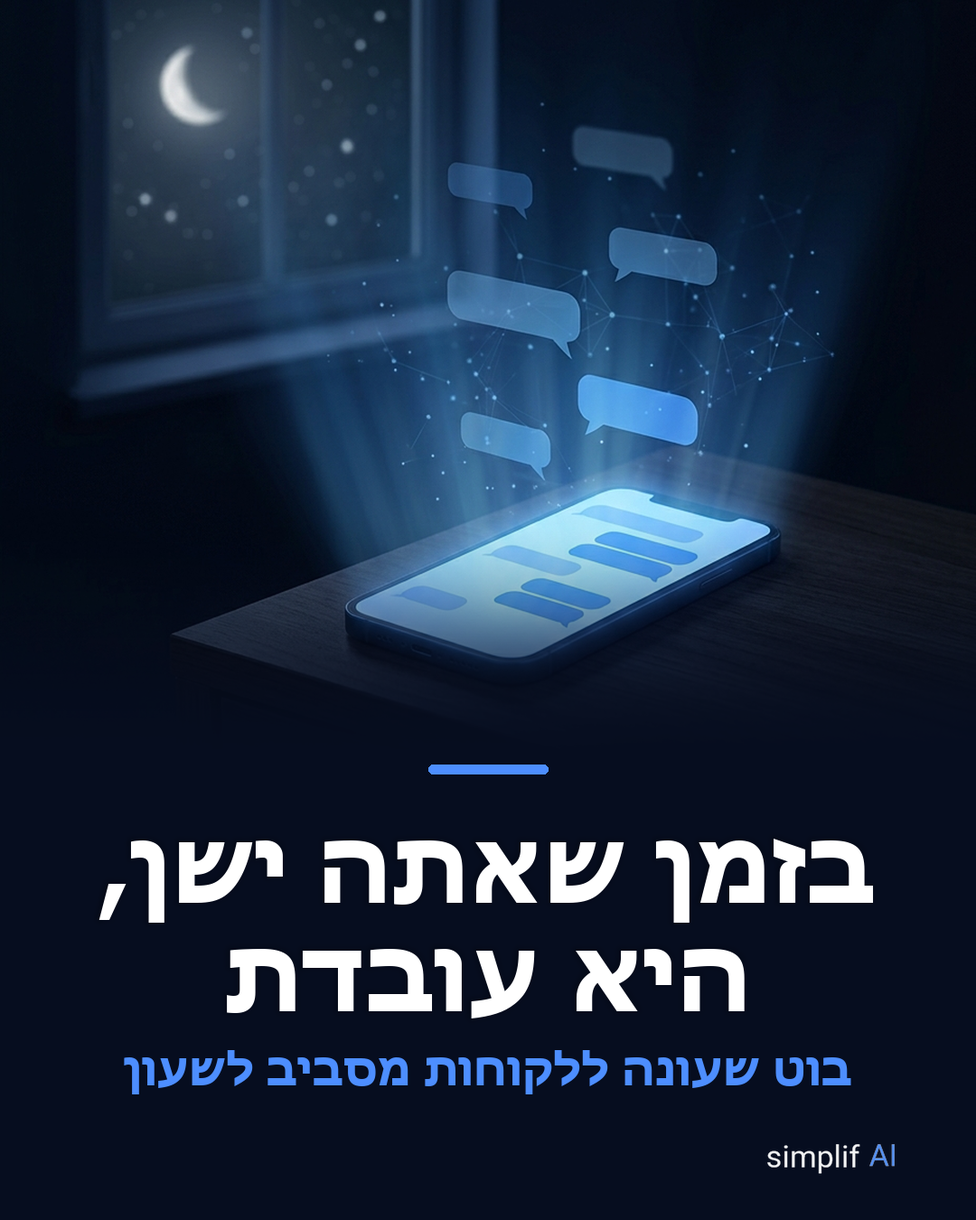
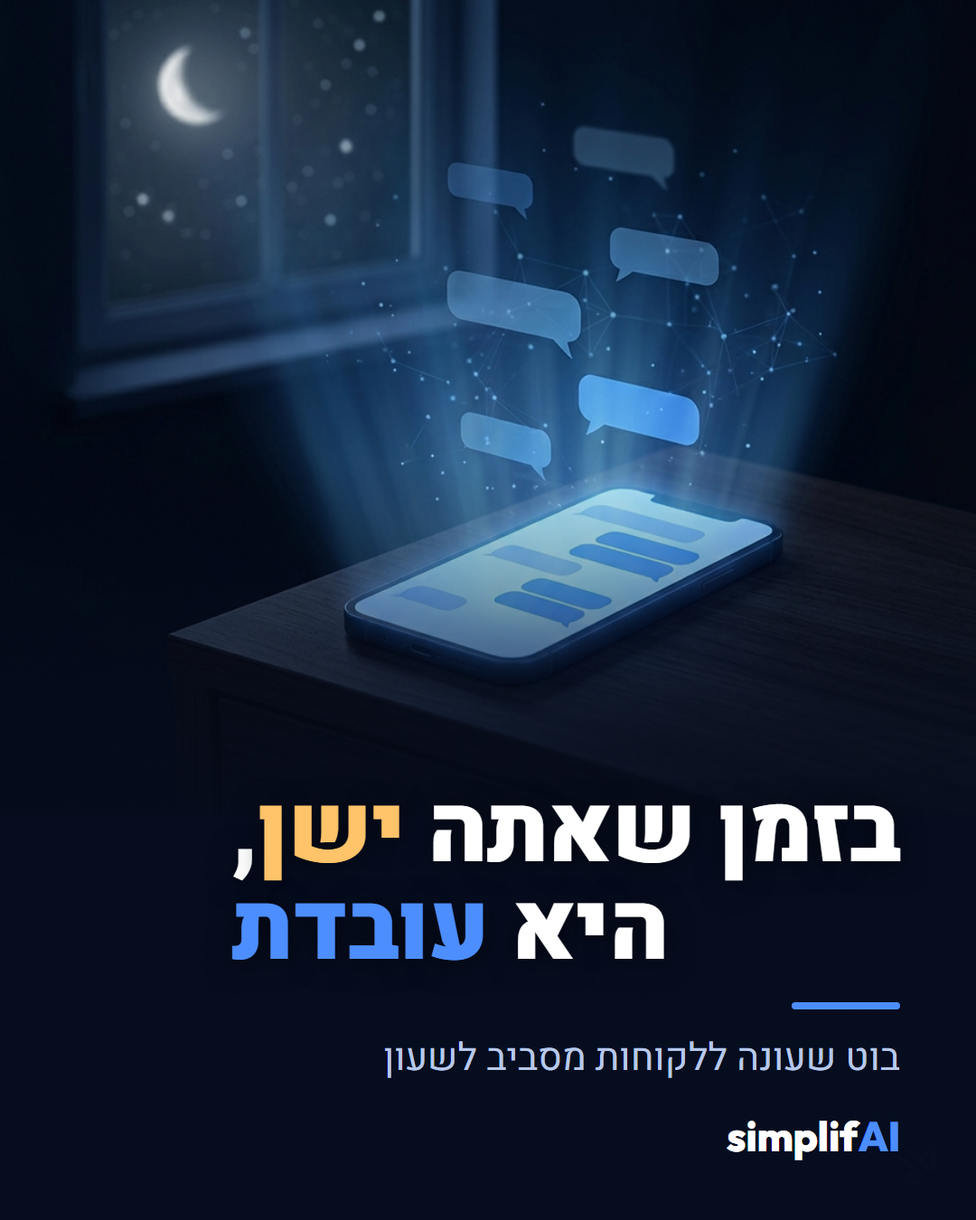
preview(jun-batch): show full copy + varied per-post typography
- index.html: cover-grid → 14 full IG mockups with complete captions
- covers: replace single rigid centered-text layout with 7 distinct
  archetypes (corner/two-tone/before-after/big-word/question/marker/founder)

diff --git a/preview/jun-batch/index.html b/preview/jun-batch/index.html
@@ -1,38 +1,177 @@
 <!DOCTYPE html><html lang="he" dir="rtl"><head><meta charset="UTF-8">
 <meta name="viewport" content="width=device-width, initial-scale=1.0"><meta name="robots" content="noindex,nofollow">
-<title>Batch 17–30.6 — 14 פוסטים | simplifAI</title>
-<link rel="stylesheet" href="https://fonts.googleapis.com/css2?family=Heebo:wght@300;400;700;900&display=swap">
+<title>Batch 17–30.6 — 14 פוסטים (קופי מלא) | simplifAI</title>
 <style>
-*{margin:0;padding:0;box-sizing:border-box}body{background:#060D1F;color:#EAF0FF;font-family:'Heebo',sans-serif;font-weight:300;padding:20px 14px;max-width:760px;margin:0 auto}
-h1{font-size:22px;font-weight:900}.sub{color:#9DB0D6;font-size:14px;margin:4px 0 16px}
-.g{display:grid;grid-template-columns:1fr 1fr;gap:14px}
-.card{background:#0E1A38;border:1px solid #1E2D52;border-radius:14px;overflow:hidden}
-.card img{width:100%;display:block}
-.m{padding:10px 12px}.d{color:#4D8EFF;font-weight:700;font-size:13px}.t{font-size:13px;color:#cfe0ff;margin-top:3px;line-height:1.4}
-.tag{display:inline-block;font-size:11px;color:#9DB0D6;border:1px solid #24375f;border-radius:20px;padding:1px 8px;margin-top:6px}
-@media(max-width:520px){.g{grid-template-columns:1fr}}
-.note{background:rgba(242,193,78,.08);border:1px solid #F2C14E;border-radius:12px;padding:12px;font-size:13px;color:#f0dca0;margin:16px 0}
+@import url('https://fonts.googleapis.com/css2?family=Heebo:wght@300;400;500;700;900&family=Outfit:wght@700;800&display=swap');
+*{margin:0;padding:0;box-sizing:border-box}
+body{background:#070D1C;font-family:'Heebo',sans-serif;color:#EAF0FF;padding:30px 16px 80px;max-width:1240px;margin:0 auto}
+.head h1{font-size:26px;font-weight:900;font-family:'Outfit','Heebo';letter-spacing:-.5px}
+.head h1 b{color:#4D8EFF}
+.head .sub{color:#9DB0D6;font-size:14px;margin:6px 0 4px}
+.note{background:rgba(242,193,78,.08);border:1px solid #F2C14E;border-radius:12px;padding:12px 14px;font-size:13px;color:#f0dca0;margin:16px 0 26px;line-height:1.5}
+.grid{display:flex;flex-wrap:wrap;gap:40px 36px;justify-content:center}
+.card{width:392px}
+.tag{text-align:center;color:#9DB0D6;font-size:11px;font-weight:700;letter-spacing:1.5px;margin-bottom:12px}
+.tag .d{color:#4D8EFF}
+.ph{background:#000;border-radius:36px;padding:10px;box-shadow:0 0 0 2px rgba(255,255,255,.07),0 24px 70px rgba(0,0,0,.6),0 0 110px rgba(77,142,255,.08)}
+.scr{background:#000;border-radius:27px;overflow:hidden}
+.hdr{display:flex;align-items:center;gap:9px;padding:10px 13px;direction:ltr}
+.av{width:32px;height:32px;border-radius:50%;background:linear-gradient(135deg,#4D8EFF,#1a3a6b);border:2px solid #4D8EFF;display:flex;align-items:center;justify-content:center;color:#fff;font-weight:700;font-size:12px}
+.un{color:#fff;font-size:13px;font-weight:700}.loc{color:rgba(255,255,255,.5);font-size:10px}
+.more{margin-right:auto;color:#fff;font-size:18px;direction:ltr}
+.imgwrap{width:100%;aspect-ratio:4/5;background:#000}.imgwrap img{width:100%;height:100%;object-fit:cover;display:block}
+.acts{display:flex;justify-content:space-between;padding:9px 13px 2px;direction:ltr}.acts svg{width:23px;height:23px;stroke:#fff;fill:none;stroke-width:2}
+.al{display:flex;gap:14px}
+.likes{padding:1px 13px 5px;color:#fff;font-size:13px;font-weight:700;direction:ltr}
+.cap{padding:0 13px 10px;color:#fff;font-size:12.5px;line-height:1.6;direction:rtl}.cap .u{font-weight:700;direction:ltr}
+.metaline{padding:8px 13px 11px;color:#8aa0c8;font-size:10.5px;border-top:1px solid rgba(255,255,255,.07);direction:rtl;line-height:1.5}
 </style></head><body>
-<h1>Batch 17–30.6 · 14 פוסטים</h1>
-<div class="sub">שיטת v4.3 (סצנת Gemini + טקסט משופר) · IG+FB+LI · ממתין לאישורך — לא פורסם</div>
-<div class="note">3 פוסטי Proof (19/24/27) כתובים עם <b>[לאמת]</b> — צריך ממך מספר/ציטוט לקוח אמיתי לפני פרסום.</div>
-<div class="g" id="g"></div>
-<script>
-const P=[
-["17","רביעי · Pure Edu","AI זה לא רובוטים — דברים שקורים לבד"],
-["18","חמישי · Edutainment","בזמן שאתה ישן, היא עובדת"],
-["19","שישי · Soft Proof","מ-23:00 — הביתה ב-19:00 [לאמת]"],
-["20","שבת · Pure Edu","אפס העתקה ידנית"],
-["21","ראשון · Soft CTA","כמה שעות אתה מבזבז? (ROI)"],
-["22","שני · Edutainment","תסגור את הטאבים על AI"],
-["23","שלישי · BTS","ככה נבנית אוטומציה"],
-["24","רביעי · Soft Proof","דווקא הקטן מרוויח מהר [לאמת]"],
-["25","חמישי · Pure Edu","3 סימנים שהגיע הזמן"],
-["26","שישי · Edutainment","מה לוקח הכי הרבה זמן?"],
-["27","שבת · Soft Proof","הייתי שם. בדיוק שם. [לאמת]"],
-["28","ראשון · BTS","לא צריך להבין — רק שיעבוד"],
-["29","שני · Soft CTA","30 דקות. אפס עלות."],
-["30","שלישי · Hard Sell","תפסיק לשלם מס ידני"]];
-document.getElementById('g').innerHTML=P.map(p=>`<div class="card"><img src="jun-${p[0]}-cover-4x5.png" loading="lazy"><div class="m"><div class="d">${p[0]}.6 · ${p[1]}</div><div class="t">${p[2]}</div></div></div>`).join('');
-</script>
+<div class="head">
+  <h1>Batch 17–30.6 · <b>14 פוסטים</b></h1>
+  <div class="sub">קופי מלא + ויזואל מגוון (טיפוגרפיה שונה לכל פוסט) · IG+FB+LI · ממתין לאישורך — לא פורסם</div>
+</div>
+<div class="note"><b>3 פוסטי Proof (19/24/27)</b> מכילים <b>[לאמת]</b> בקופי — צריך ממך מספר/ציטוט לקוח אמיתי לפני פרסום. שאר ה-11 מוכנים.</div>
+<div class="grid">
+<div class="card">
+  <div class="tag"><span class="d">17.6</span> · רביעי 17.6 · 07:00 · IG+FB+LI — Pure Edu</div>
+  <div class="ph"><div class="scr">
+    <div class="hdr"><div class="av">S</div><div><div class="un">simplifai.biz</div><div class="loc">Eilat, Israel</div></div><span class="more">···</span></div>
+    <div class="imgwrap"><img src="jun-17-cover-4x5.png" loading="lazy"></div>
+    <div class="acts"><div class="al"><svg viewBox="0 0 24 24"><path d="M16.8 3.9A5 5 0 0121.5 9.1c0 3.1-2.7 5-5.2 7.2-2.5 2.2-3.9 3.5-4.3 3.8-.5-.3-2.1-1.8-4.3-3.8C5.1 14.1 2.5 12.2 2.5 9.1A5 5 0 017.2 3.9a4.2 4.2 0 013.7 1.9c.8 1.2 1 1.8 1.1 1.8s.3-.6 1.1-1.8a4.2 4.2 0 013.7-1.9z"/></svg><svg viewBox="0 0 24 24"><path d="M20.7 17a10 10 0 10-5.7 5.7L21 24l-.3-7z"/></svg><svg viewBox="0 0 24 24"><path d="M22 3L9.2 10.1M11.7 20.3L22 3 2 10.1l7.2 7z" stroke-linejoin="round"/></svg></div></div>
+    <div class="likes">84 likes</div>
+    <div class="cap"><span class="u">simplifai.biz</span>&#8291;<br>AI לעסק שלך זה לא רובוטים ולא עתיד רחוק.<br><br>זה דברים פשוטים שקורים לבד, כבר היום:<br>✅ הצעת מחיר שנשלחת ללקוח תוך דקה<br>✅ דוח חודשי שנבנה לבד בלי Excel ידני<br>✅ תזכורת ללקוח שיוצאת בזמן — בלי שתזכור<br><br>לא צריך להבין איך זה עובד מבפנים. צריך רק שזה יעבוד.<br><br>מה הדבר הראשון בעסק שלך שהיית שמח שייעשה לבד? כתוב בתגובות 👇<br><br>#בינהמלאכותית #אוטומציהעסקית #ייעולעסקי #עסקיםקטנים #AIלעסקים #simplifAI #אילת #עסקיםבאילת</div>
+    <div class="metaline">Pillar: פשטות · Framework: BAB · Funnel: TOFU · Hook: #10 (דמיסטיפיקציה)</div>
+  </div></div>
+</div><div class="card">
+  <div class="tag"><span class="d">18.6</span> · חמישי 18.6 · 07:00 · IG+FB+LI — Edutainment</div>
+  <div class="ph"><div class="scr">
+    <div class="hdr"><div class="av">S</div><div><div class="un">simplifai.biz</div><div class="loc">Eilat, Israel</div></div><span class="more">···</span></div>
+    <div class="imgwrap"><img src="jun-18-cover-4x5.png" loading="lazy"></div>
+    <div class="acts"><div class="al"><svg viewBox="0 0 24 24"><path d="M16.8 3.9A5 5 0 0121.5 9.1c0 3.1-2.7 5-5.2 7.2-2.5 2.2-3.9 3.5-4.3 3.8-.5-.3-2.1-1.8-4.3-3.8C5.1 14.1 2.5 12.2 2.5 9.1A5 5 0 017.2 3.9a4.2 4.2 0 013.7 1.9c.8 1.2 1 1.8 1.1 1.8s.3-.6 1.1-1.8a4.2 4.2 0 013.7-1.9z"/></svg><svg viewBox="0 0 24 24"><path d="M20.7 17a10 10 0 10-5.7 5.7L21 24l-.3-7z"/></svg><svg viewBox="0 0 24 24"><path d="M22 3L9.2 10.1M11.7 20.3L22 3 2 10.1l7.2 7z" stroke-linejoin="round"/></svg></div></div>
+    <div class="likes">88 likes</div>
+    <div class="cap"><span class="u">simplifai.biz</span>&#8291;<br>המזכירה הכי טובה שלך:<br>❌ לא ישנה<br>❌ לא מתלוננת<br>❌ לא רוצה העלאה בשכר<br>✅ עונה ללקוחות גם ב-23:00<br><br>איך קוראים לה? אוטומציה.<br><br>בזמן שאתה ישן, הליד שנכנס בלילה כבר קיבל תשובה, נשמר ב-CRM, וקיבל הצעת מחיר. בבוקר אתה רק סוגר.<br><br>מה היית רוצה שיקרה אצלך אוטומטית בלילה? 🌙<br><br>#אוטומציה #בינהמלאכותית #עסקיםקטנים #ייעולעסקי #AIלעסקים #simplifAI #אילת #ערבה</div>
+    <div class="metaline">Pillar: כאב · Framework: PAS · Funnel: TOFU · Hook: #19 (הומור — מזכירה)</div>
+  </div></div>
+</div><div class="card">
+  <div class="tag"><span class="d">19.6</span> · שישי 19.6 · 07:00 · IG+FB (בלי LI) — Soft Proof</div>
+  <div class="ph"><div class="scr">
+    <div class="hdr"><div class="av">S</div><div><div class="un">simplifai.biz</div><div class="loc">Eilat, Israel</div></div><span class="more">···</span></div>
+    <div class="imgwrap"><img src="jun-19-cover-4x5.png" loading="lazy"></div>
+    <div class="acts"><div class="al"><svg viewBox="0 0 24 24"><path d="M16.8 3.9A5 5 0 0121.5 9.1c0 3.1-2.7 5-5.2 7.2-2.5 2.2-3.9 3.5-4.3 3.8-.5-.3-2.1-1.8-4.3-3.8C5.1 14.1 2.5 12.2 2.5 9.1A5 5 0 017.2 3.9a4.2 4.2 0 013.7 1.9c.8 1.2 1 1.8 1.1 1.8s.3-.6 1.1-1.8a4.2 4.2 0 013.7-1.9z"/></svg><svg viewBox="0 0 24 24"><path d="M20.7 17a10 10 0 10-5.7 5.7L21 24l-.3-7z"/></svg><svg viewBox="0 0 24 24"><path d="M22 3L9.2 10.1M11.7 20.3L22 3 2 10.1l7.2 7z" stroke-linejoin="round"/></svg></div></div>
+    <div class="likes">92 likes</div>
+    <div class="cap"><span class="u">simplifai.biz</span>&#8291;<br>לפני: לוקח טלפונים והודעות עד 23:00. עונה לאותן שאלות שוב ושוב.<br><br>אחרי: בוט WhatsApp עונה על זמינות, מחיר ושעות — והוא בבית עם המשפחה ב-19:00.<br><br>אותם לקוחות. אותה הכנסה. פחות [לאמת: X] שעות ביום.<br><br>זה לא קסם. זה חוליה אחת ב-funnel שעבדה. <br><br>רוצה לראות איך זה נראה אצלך? שלח "ROI" 💬<br><br>#אוטומציהעסקית #בוטוואטסאפ #ייעולעסקי #עסקיםקטנים #simplifAI #אילת #עסקיםבאילת</div>
+    <div class="metaline">Pillar: תוצאה · Framework: BAB · Funnel: MOFU · Hook: #22 (לפני/אחרי)</div>
+  </div></div>
+</div><div class="card">
+  <div class="tag"><span class="d">20.6</span> · שבת 20.6 · 20:00 · IG+FB+LI — Pure Edu</div>
+  <div class="ph"><div class="scr">
+    <div class="hdr"><div class="av">S</div><div><div class="un">simplifai.biz</div><div class="loc">Eilat, Israel</div></div><span class="more">···</span></div>
+    <div class="imgwrap"><img src="jun-20-cover-4x5.png" loading="lazy"></div>
+    <div class="acts"><div class="al"><svg viewBox="0 0 24 24"><path d="M16.8 3.9A5 5 0 0121.5 9.1c0 3.1-2.7 5-5.2 7.2-2.5 2.2-3.9 3.5-4.3 3.8-.5-.3-2.1-1.8-4.3-3.8C5.1 14.1 2.5 12.2 2.5 9.1A5 5 0 017.2 3.9a4.2 4.2 0 013.7 1.9c.8 1.2 1 1.8 1.1 1.8s.3-.6 1.1-1.8a4.2 4.2 0 013.7-1.9z"/></svg><svg viewBox="0 0 24 24"><path d="M20.7 17a10 10 0 10-5.7 5.7L21 24l-.3-7z"/></svg><svg viewBox="0 0 24 24"><path d="M22 3L9.2 10.1M11.7 20.3L22 3 2 10.1l7.2 7z" stroke-linejoin="round"/></svg></div></div>
+    <div class="likes">96 likes</div>
+    <div class="cap"><span class="u">simplifai.biz</span>&#8291;<br>יש דבר אחד שכמעט כל בעל עסק עושה כל בוקר — והוא בזבוז זמן כמעט מוחלט:<br><br>מעתיק ידנית מידע ממקום אחד לשני.<br>מ-WhatsApp ל-Excel. מהמייל ל-CRM. מהטופס ליומן.<br><br>כל העתקה כזו = דקות שמצטברות לשעות בשבוע. וגם מקור #1 לטעויות.<br><br>החדשות הטובות: זה בדיוק מה שאוטומציה פותרת ראשון. חיבור בין מערכות = אפס העתקה ידנית.<br><br>איפה אתה מעתיק ידנית הכי הרבה? 👇<br><br>#אוטומציה #ייעולעסקי #בינהמלאכותית #עסקיםקטנים #simplifAI #אילת #ערבה #נגב</div>
+    <div class="metaline">Pillar: פשטות · Framework: AIDA · Funnel: TOFU · Hook: #30 (curiosity)</div>
+  </div></div>
+</div><div class="card">
+  <div class="tag"><span class="d">21.6</span> · ראשון 21.6 · 07:00 · IG+FB+LI — Soft CTA</div>
+  <div class="ph"><div class="scr">
+    <div class="hdr"><div class="av">S</div><div><div class="un">simplifai.biz</div><div class="loc">Eilat, Israel</div></div><span class="more">···</span></div>
+    <div class="imgwrap"><img src="jun-21-cover-4x5.png" loading="lazy"></div>
+    <div class="acts"><div class="al"><svg viewBox="0 0 24 24"><path d="M16.8 3.9A5 5 0 0121.5 9.1c0 3.1-2.7 5-5.2 7.2-2.5 2.2-3.9 3.5-4.3 3.8-.5-.3-2.1-1.8-4.3-3.8C5.1 14.1 2.5 12.2 2.5 9.1A5 5 0 017.2 3.9a4.2 4.2 0 013.7 1.9c.8 1.2 1 1.8 1.1 1.8s.3-.6 1.1-1.8a4.2 4.2 0 013.7-1.9z"/></svg><svg viewBox="0 0 24 24"><path d="M20.7 17a10 10 0 10-5.7 5.7L21 24l-.3-7z"/></svg><svg viewBox="0 0 24 24"><path d="M22 3L9.2 10.1M11.7 20.3L22 3 2 10.1l7.2 7z" stroke-linejoin="round"/></svg></div></div>
+    <div class="likes">100 likes</div>
+    <div class="cap"><span class="u">simplifai.biz</span>&#8291;<br>רוצה לדעת כמה זמן וכסף העסק שלך מבזבז על משימות ידניות — בלי להתחייב לכלום?<br><br>יש לנו מחשבון ROI קצר באתר. 2 דקות, בלי פרטים אישיים בהתחלה, ומקבל מספר אמיתי: כמה שעות בחודש אתה יכול להחזיר.<br><br>בלי שיחת מכירה. בלי לחץ. רק תמונה ברורה.<br><br>הלינק ב-BIO 👆 או שלח "ROI" ונשלח לך ישירות.<br><br>#ייעולעסקי #אוטומציהעסקית #ROI #עסקיםקטנים #AIלעסקים #simplifAI #אילת #עסקיםבאילת</div>
+    <div class="metaline">Pillar: CTA · Framework: AIDA · Funnel: BOFU · Hook: #16 (ללא סיכון)</div>
+  </div></div>
+</div><div class="card">
+  <div class="tag"><span class="d">22.6</span> · שני 22.6 · 07:00 · IG+FB+LI — Edutainment</div>
+  <div class="ph"><div class="scr">
+    <div class="hdr"><div class="av">S</div><div><div class="un">simplifai.biz</div><div class="loc">Eilat, Israel</div></div><span class="more">···</span></div>
+    <div class="imgwrap"><img src="jun-22-cover-4x5.png" loading="lazy"></div>
+    <div class="acts"><div class="al"><svg viewBox="0 0 24 24"><path d="M16.8 3.9A5 5 0 0121.5 9.1c0 3.1-2.7 5-5.2 7.2-2.5 2.2-3.9 3.5-4.3 3.8-.5-.3-2.1-1.8-4.3-3.8C5.1 14.1 2.5 12.2 2.5 9.1A5 5 0 017.2 3.9a4.2 4.2 0 013.7 1.9c.8 1.2 1 1.8 1.1 1.8s.3-.6 1.1-1.8a4.2 4.2 0 013.7-1.9z"/></svg><svg viewBox="0 0 24 24"><path d="M20.7 17a10 10 0 10-5.7 5.7L21 24l-.3-7z"/></svg><svg viewBox="0 0 24 24"><path d="M22 3L9.2 10.1M11.7 20.3L22 3 2 10.1l7.2 7z" stroke-linejoin="round"/></svg></div></div>
+    <div class="likes">104 likes</div>
+    <div class="cap"><span class="u">simplifai.biz</span>&#8291;<br>יש לך עכשיו טאב פתוח עם "איך להשתמש ב-AI לעסק"?<br><br>או אחד עם "קורס אוטומציה למתחילים"?<br>או "ChatGPT לעסקים — מדריך"?<br><br>תסגור אותם. 😄<br><br>לא צריך להפוך למומחה AI. בשביל זה אנחנו פה — אתה ממשיך לנהל את העסק, אנחנו בונים את המערכות.<br><br>כמה טאבים פתוחים יש לך עכשיו? תודה אמיתית בתגובות 👇<br><br>#בינהמלאכותית #אוטומציה #עסקיםקטנים #ייעולעסקי #simplifAI #אילת #ערבה</div>
+    <div class="metaline">Pillar: כאב · Framework: PAS · Funnel: TOFU · Hook: #18 (הומור — טאב)</div>
+  </div></div>
+</div><div class="card">
+  <div class="tag"><span class="d">23.6</span> · שלישי 23.6 · 07:00 · IG+FB+LI — BTS (Behind the Scenes)</div>
+  <div class="ph"><div class="scr">
+    <div class="hdr"><div class="av">S</div><div><div class="un">simplifai.biz</div><div class="loc">Eilat, Israel</div></div><span class="more">···</span></div>
+    <div class="imgwrap"><img src="jun-23-cover-4x5.png" loading="lazy"></div>
+    <div class="acts"><div class="al"><svg viewBox="0 0 24 24"><path d="M16.8 3.9A5 5 0 0121.5 9.1c0 3.1-2.7 5-5.2 7.2-2.5 2.2-3.9 3.5-4.3 3.8-.5-.3-2.1-1.8-4.3-3.8C5.1 14.1 2.5 12.2 2.5 9.1A5 5 0 017.2 3.9a4.2 4.2 0 013.7 1.9c.8 1.2 1 1.8 1.1 1.8s.3-.6 1.1-1.8a4.2 4.2 0 013.7-1.9z"/></svg><svg viewBox="0 0 24 24"><path d="M20.7 17a10 10 0 10-5.7 5.7L21 24l-.3-7z"/></svg><svg viewBox="0 0 24 24"><path d="M22 3L9.2 10.1M11.7 20.3L22 3 2 10.1l7.2 7z" stroke-linejoin="round"/></svg></div></div>
+    <div class="likes">108 likes</div>
+    <div class="cap"><span class="u">simplifai.biz</span>&#8291;<br>איך נראית בנייה של אוטומציה אצלנו, בלי באזז:<br><br>1. שיחת גילוי — מבינים איפה הזמן שלך נשרף<br>2. בונים חוליה אחת ב-funnel (לא הכל בבת אחת)<br>3. בודקים במצב TEST — בלי לגעת בלקוחות אמיתיים<br>4. עולים לאוויר + שבוע ליווי<br><br>בלי פרויקט ענק של חצי שנה. חוליה אחת, תוצאה מהירה, ואז הבאה.<br><br>ככה אנחנו עובדים מאילת — עם עסקים בכל הארץ.<br><br>#אוטומציהעסקית #מהשטח #ייעולעסקי #עסקיםקטנים #simplifAI #אילת #עסקיםבאילת #ערבה</div>
+    <div class="metaline">Pillar: פשטות · Framework: BAB · Funnel: MOFU · Hook: #26 (authority)</div>
+  </div></div>
+</div><div class="card">
+  <div class="tag"><span class="d">24.6</span> · רביעי 24.6 · 07:00 · IG+FB+LI — Soft Proof</div>
+  <div class="ph"><div class="scr">
+    <div class="hdr"><div class="av">S</div><div><div class="un">simplifai.biz</div><div class="loc">Eilat, Israel</div></div><span class="more">···</span></div>
+    <div class="imgwrap"><img src="jun-24-cover-4x5.png" loading="lazy"></div>
+    <div class="acts"><div class="al"><svg viewBox="0 0 24 24"><path d="M16.8 3.9A5 5 0 0121.5 9.1c0 3.1-2.7 5-5.2 7.2-2.5 2.2-3.9 3.5-4.3 3.8-.5-.3-2.1-1.8-4.3-3.8C5.1 14.1 2.5 12.2 2.5 9.1A5 5 0 017.2 3.9a4.2 4.2 0 013.7 1.9c.8 1.2 1 1.8 1.1 1.8s.3-.6 1.1-1.8a4.2 4.2 0 013.7-1.9z"/></svg><svg viewBox="0 0 24 24"><path d="M20.7 17a10 10 0 10-5.7 5.7L21 24l-.3-7z"/></svg><svg viewBox="0 0 24 24"><path d="M22 3L9.2 10.1M11.7 20.3L22 3 2 10.1l7.2 7z" stroke-linejoin="round"/></svg></div></div>
+    <div class="likes">112 likes</div>
+    <div class="cap"><span class="u">simplifai.biz</span>&#8291;<br>כולם חושבים ש-AI זה למפעלים גדולים עם תקציבי ענק.<br><br>האמת? דווקא העסק הקטן מרוויח הכי מהר. פחות מערכות, פחות בירוקרטיה, שינוי שמרגישים מיד.<br><br>עסק קטן עם [לאמת: X עובדים] — חיברנו טופס → CRM → WhatsApp. הזמן שירד על טיפול בליד: מ-[לאמת] דקות ל-כמעט אפס.<br><br>לא כי הטכנולוגיה מסובכת. כי הכאב היה ברור.<br><br>מה הכאב הכי גדול שלך היום? 👇<br><br>#אוטומציה #עסקיםקטנים #ייעולעסקי #בינהמלאכותית #simplifAI #אילת #ערבה #נגב</div>
+    <div class="metaline">Pillar: תוצאה · Framework: PASTOR · Funnel: MOFU · Hook: #14 (היפוך ציפיות)</div>
+  </div></div>
+</div><div class="card">
+  <div class="tag"><span class="d">25.6</span> · חמישי 25.6 · 07:00 · IG+FB+LI — Pure Edu</div>
+  <div class="ph"><div class="scr">
+    <div class="hdr"><div class="av">S</div><div><div class="un">simplifai.biz</div><div class="loc">Eilat, Israel</div></div><span class="more">···</span></div>
+    <div class="imgwrap"><img src="jun-25-cover-4x5.png" loading="lazy"></div>
+    <div class="acts"><div class="al"><svg viewBox="0 0 24 24"><path d="M16.8 3.9A5 5 0 0121.5 9.1c0 3.1-2.7 5-5.2 7.2-2.5 2.2-3.9 3.5-4.3 3.8-.5-.3-2.1-1.8-4.3-3.8C5.1 14.1 2.5 12.2 2.5 9.1A5 5 0 017.2 3.9a4.2 4.2 0 013.7 1.9c.8 1.2 1 1.8 1.1 1.8s.3-.6 1.1-1.8a4.2 4.2 0 013.7-1.9z"/></svg><svg viewBox="0 0 24 24"><path d="M20.7 17a10 10 0 10-5.7 5.7L21 24l-.3-7z"/></svg><svg viewBox="0 0 24 24"><path d="M22 3L9.2 10.1M11.7 20.3L22 3 2 10.1l7.2 7z" stroke-linejoin="round"/></svg></div></div>
+    <div class="likes">116 likes</div>
+    <div class="cap"><span class="u">simplifai.biz</span>&#8291;<br>3 סימנים שהעסק שלך בשל לאוטומציה:<br><br>1⃣ אתה עונה לאותן שאלות מלקוחות כל יום מחדש<br>2⃣ יש לך מידע שעובר ידנית בין כמה מערכות<br>3⃣ לידים "נופלים" כי לא הספקת לחזור בזמן<br><br>אם סימנת לפחות אחד — יש שם שעות שאפשר להחזיר.<br><br>כמה מהשלושה מתאימים לך? כתוב מספר בתגובות 👇<br><br>#ייעולעסקי #אוטומציהעסקית #עסקיםקטנים #בינהמלאכותית #simplifAI #אילת #עסקיםבאילת</div>
+    <div class="metaline">Pillar: סימנים · Framework: PAS · Funnel: TOFU · Hook: #2 (שאלה שמכאבת)</div>
+  </div></div>
+</div><div class="card">
+  <div class="tag"><span class="d">26.6</span> · שישי 26.6 · 07:00 · IG+FB (בלי LI) — Edutainment</div>
+  <div class="ph"><div class="scr">
+    <div class="hdr"><div class="av">S</div><div><div class="un">simplifai.biz</div><div class="loc">Eilat, Israel</div></div><span class="more">···</span></div>
+    <div class="imgwrap"><img src="jun-26-cover-4x5.png" loading="lazy"></div>
+    <div class="acts"><div class="al"><svg viewBox="0 0 24 24"><path d="M16.8 3.9A5 5 0 0121.5 9.1c0 3.1-2.7 5-5.2 7.2-2.5 2.2-3.9 3.5-4.3 3.8-.5-.3-2.1-1.8-4.3-3.8C5.1 14.1 2.5 12.2 2.5 9.1A5 5 0 017.2 3.9a4.2 4.2 0 013.7 1.9c.8 1.2 1 1.8 1.1 1.8s.3-.6 1.1-1.8a4.2 4.2 0 013.7-1.9z"/></svg><svg viewBox="0 0 24 24"><path d="M20.7 17a10 10 0 10-5.7 5.7L21 24l-.3-7z"/></svg><svg viewBox="0 0 24 24"><path d="M22 3L9.2 10.1M11.7 20.3L22 3 2 10.1l7.2 7z" stroke-linejoin="round"/></svg></div></div>
+    <div class="likes">120 likes</div>
+    <div class="cap"><span class="u">simplifai.biz</span>&#8291;<br>כל עסק ששאלתי "מה לוקח לכם הכי הרבה זמן" — התחיל את התשובה אותו דבר:<br><br>"אתה לא תאמין, אבל..."<br><br>אני מאמין. שמעתי את זה עשרות פעמים. הצעות מחיר ידניות, תיאומים בטלפון, מעקב אחרי לקוחות באקסל.<br><br>זה לא "אתה לא תאמין". זה הדבר הכי נפוץ שיש — ויש לו פתרון.<br><br>מה ה"אתה לא תאמין" שלך? 😄👇<br><br>#אוטומציה #עסקיםקטנים #ייעולעסקי #מהשטח #simplifAI #אילת #ערבה</div>
+    <div class="metaline">Pillar: כאב · Framework: PAS · Funnel: TOFU · Hook: #20 (הומור — ציטוט)</div>
+  </div></div>
+</div><div class="card">
+  <div class="tag"><span class="d">27.6</span> · שבת 27.6 · 20:00 · IG+FB+LI — Soft Proof</div>
+  <div class="ph"><div class="scr">
+    <div class="hdr"><div class="av">S</div><div><div class="un">simplifai.biz</div><div class="loc">Eilat, Israel</div></div><span class="more">···</span></div>
+    <div class="imgwrap"><img src="jun-27-cover-4x5.png" loading="lazy"></div>
+    <div class="acts"><div class="al"><svg viewBox="0 0 24 24"><path d="M16.8 3.9A5 5 0 0121.5 9.1c0 3.1-2.7 5-5.2 7.2-2.5 2.2-3.9 3.5-4.3 3.8-.5-.3-2.1-1.8-4.3-3.8C5.1 14.1 2.5 12.2 2.5 9.1A5 5 0 017.2 3.9a4.2 4.2 0 013.7 1.9c.8 1.2 1 1.8 1.1 1.8s.3-.6 1.1-1.8a4.2 4.2 0 013.7-1.9z"/></svg><svg viewBox="0 0 24 24"><path d="M20.7 17a10 10 0 10-5.7 5.7L21 24l-.3-7z"/></svg><svg viewBox="0 0 24 24"><path d="M22 3L9.2 10.1M11.7 20.3L22 3 2 10.1l7.2 7z" stroke-linejoin="round"/></svg></div></div>
+    <div class="likes">124 likes</div>
+    <div class="cap"><span class="u">simplifai.biz</span>&#8291;<br>ניהלתי עסק 10 שנים לפני שנכנסתי לעולם ה-AI.<br><br>אני יודע בדיוק איפה מערכות נשברות — כי הייתי שם. הרגשתי את הלילות שעונים ללקוחות, את ההצעות שנכתבו ב-1 בלילה, את הלידים שאבדו.<br><br>לקוח אמר לי השבוע: "אורי, אני לא מאמין שזה כל כך פשוט". [לאמת: ציטוט אמיתי]<br><br>זה הכי כיף בעבודה הזו — לא הטכנולוגיה. ההקלה.<br><br>— אורי בר דרור, מייסד simplifAI<br><br>#מהשטח #ייעולעסקי #אוטומציהעסקית #simplifAI #אילת #עסקיםבאילת #ערבה</div>
+    <div class="metaline">Pillar: אמון · Framework: PASTOR · Funnel: MOFU · Hook: #15/#23 (סיפור אישי + ציטוט)</div>
+  </div></div>
+</div><div class="card">
+  <div class="tag"><span class="d">28.6</span> · ראשון 28.6 · 07:00 · IG+FB+LI — BTS</div>
+  <div class="ph"><div class="scr">
+    <div class="hdr"><div class="av">S</div><div><div class="un">simplifai.biz</div><div class="loc">Eilat, Israel</div></div><span class="more">···</span></div>
+    <div class="imgwrap"><img src="jun-28-cover-4x5.png" loading="lazy"></div>
+    <div class="acts"><div class="al"><svg viewBox="0 0 24 24"><path d="M16.8 3.9A5 5 0 0121.5 9.1c0 3.1-2.7 5-5.2 7.2-2.5 2.2-3.9 3.5-4.3 3.8-.5-.3-2.1-1.8-4.3-3.8C5.1 14.1 2.5 12.2 2.5 9.1A5 5 0 017.2 3.9a4.2 4.2 0 013.7 1.9c.8 1.2 1 1.8 1.1 1.8s.3-.6 1.1-1.8a4.2 4.2 0 013.7-1.9z"/></svg><svg viewBox="0 0 24 24"><path d="M20.7 17a10 10 0 10-5.7 5.7L21 24l-.3-7z"/></svg><svg viewBox="0 0 24 24"><path d="M22 3L9.2 10.1M11.7 20.3L22 3 2 10.1l7.2 7z" stroke-linejoin="round"/></svg></div></div>
+    <div class="likes">128 likes</div>
+    <div class="cap"><span class="u">simplifai.biz</span>&#8291;<br>שאלה שאני מקבל הכי הרבה: "אבל אני לא טכנולוגי בכלל — זה לא בשבילי?"<br><br>בדיוק להפך.<br><br>אתה לא צריך להבין n8n, API או webhook. אתה צריך להגיד לי מה מעצבן אותך בעסק — ואני מתרגם את זה למערכת שעובדת.<br><br>מאחורי הקלעים זה הקוד שלי. מבחינתך זה כפתור אחד שעושה את מה שלקח לך שעה.<br><br>מה הכי "טכני" שניסית בעסק ונטשת? 👇<br><br>#אוטומציה #עסקיםקטנים #ייעולעסקי #בינהמלאכותית #simplifAI #אילת #ערבה</div>
+    <div class="metaline">Pillar: פשטות · Framework: BAB · Funnel: MOFU · Hook: #9 (רשות לא לדעת)</div>
+  </div></div>
+</div><div class="card">
+  <div class="tag"><span class="d">29.6</span> · שני 29.6 · 07:00 · IG+FB+LI — Soft CTA</div>
+  <div class="ph"><div class="scr">
+    <div class="hdr"><div class="av">S</div><div><div class="un">simplifai.biz</div><div class="loc">Eilat, Israel</div></div><span class="more">···</span></div>
+    <div class="imgwrap"><img src="jun-29-cover-4x5.png" loading="lazy"></div>
+    <div class="acts"><div class="al"><svg viewBox="0 0 24 24"><path d="M16.8 3.9A5 5 0 0121.5 9.1c0 3.1-2.7 5-5.2 7.2-2.5 2.2-3.9 3.5-4.3 3.8-.5-.3-2.1-1.8-4.3-3.8C5.1 14.1 2.5 12.2 2.5 9.1A5 5 0 017.2 3.9a4.2 4.2 0 013.7 1.9c.8 1.2 1 1.8 1.1 1.8s.3-.6 1.1-1.8a4.2 4.2 0 013.7-1.9z"/></svg><svg viewBox="0 0 24 24"><path d="M20.7 17a10 10 0 10-5.7 5.7L21 24l-.3-7z"/></svg><svg viewBox="0 0 24 24"><path d="M22 3L9.2 10.1M11.7 20.3L22 3 2 10.1l7.2 7z" stroke-linejoin="round"/></svg></div></div>
+    <div class="likes">132 likes</div>
+    <div class="cap"><span class="u">simplifai.biz</span>&#8291;<br>שיחת אבחון של 30 דקות. מה יוצא ממנה:<br><br>📊 תמונה ברורה של איפה הזמן שלך נשרף<br>🎯 2-3 אוטומציות ספציפיות לעסק שלך<br>💰 הערכת ROI — כמה שעות וכסף אפשר להחזיר<br><br>בלי עלות. בלי התחייבות. בלי "מצגת מכירה".<br><br>רוצה? שלח "אבחון" 💬 או קבע ישירות דרך הלינק ב-BIO.<br><br>#ייעולעסקי #אוטומציהעסקית #עסקיםקטנים #AIלעסקים #simplifAI #אילת #עסקיםבאילת #ערבה</div>
+    <div class="metaline">Pillar: CTA · Framework: AIDA · Funnel: BOFU · Hook: #28 (הצעה ישירה רכה)</div>
+  </div></div>
+</div><div class="card">
+  <div class="tag"><span class="d">30.6</span> · שלישי 30.6 · 07:00 · IG+FB+LI — Hard Sell</div>
+  <div class="ph"><div class="scr">
+    <div class="hdr"><div class="av">S</div><div><div class="un">simplifai.biz</div><div class="loc">Eilat, Israel</div></div><span class="more">···</span></div>
+    <div class="imgwrap"><img src="jun-30-cover-4x5.png" loading="lazy"></div>
+    <div class="acts"><div class="al"><svg viewBox="0 0 24 24"><path d="M16.8 3.9A5 5 0 0121.5 9.1c0 3.1-2.7 5-5.2 7.2-2.5 2.2-3.9 3.5-4.3 3.8-.5-.3-2.1-1.8-4.3-3.8C5.1 14.1 2.5 12.2 2.5 9.1A5 5 0 017.2 3.9a4.2 4.2 0 013.7 1.9c.8 1.2 1 1.8 1.1 1.8s.3-.6 1.1-1.8a4.2 4.2 0 013.7-1.9z"/></svg><svg viewBox="0 0 24 24"><path d="M20.7 17a10 10 0 10-5.7 5.7L21 24l-.3-7z"/></svg><svg viewBox="0 0 24 24"><path d="M22 3L9.2 10.1M11.7 20.3L22 3 2 10.1l7.2 7z" stroke-linejoin="round"/></svg></div></div>
+    <div class="likes">136 likes</div>
+    <div class="cap"><span class="u">simplifai.biz</span>&#8291;<br>כל חודש שעובר בלי אוטומציה, העסק שלך משלם "מס ידני" של אלפי שקלים — בשעות עבודה שחוזרות על עצמן.<br><br>לא מס למדינה. מס לחוסר יעילות. ואת זה לא חייבים לשלם.<br><br>אנחנו פותחים מספר מצומצם של פרויקטים לחודש הבא. אם רצית להתחיל — זה הזמן לדבר, לפני שהמקומות נסגרים.<br><br>שלח "מתחילים" 💬 ונקבע שיחה השבוע.<br><br>#אוטומציהעסקית #ייעולעסקי #עסקיםקטנים #AIלעסקים #simplifAI #אילת #עסקיםבאילת #ערבה #נגב</div>
+    <div class="metaline">Pillar: CTA · Framework: PAS · Funnel: BOFU · Hook: #35 (מס ידני) + #25 (urgency)</div>
+  </div></div>
+</div>
+</div>
 </body></html>
